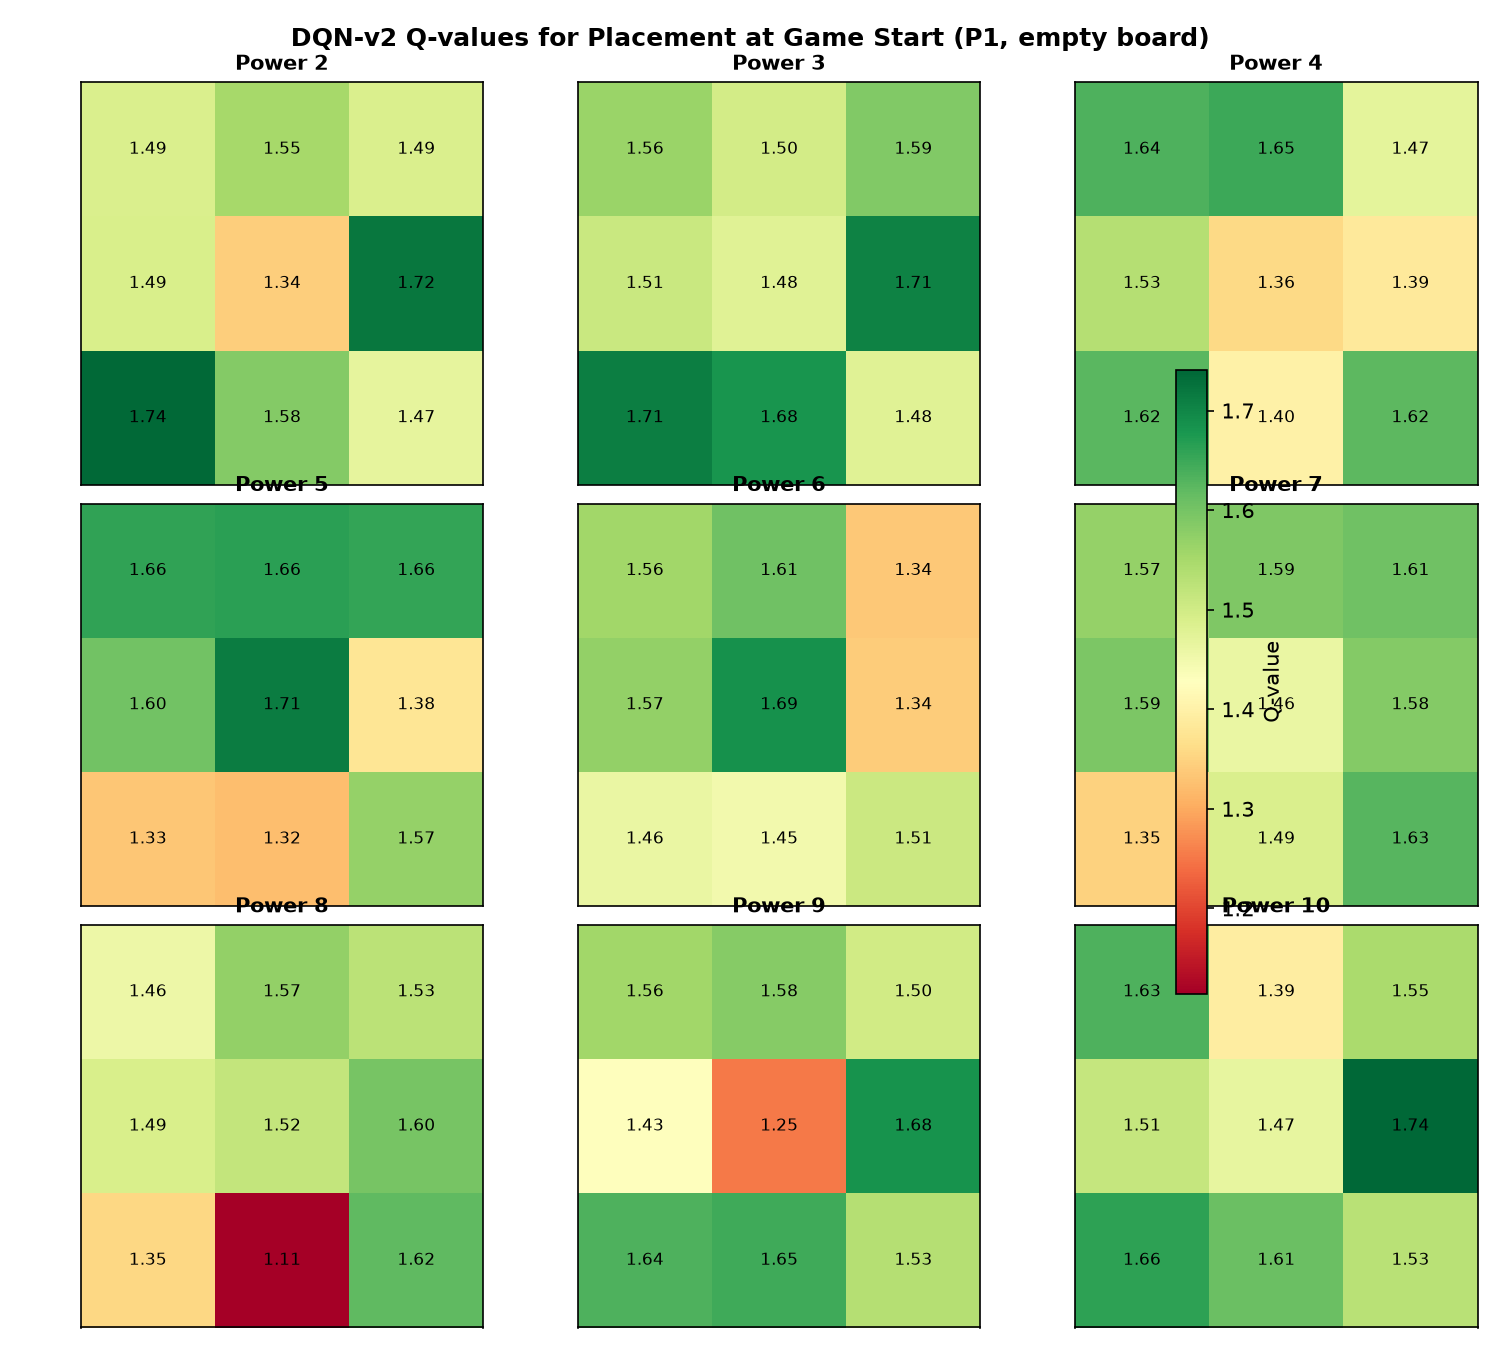
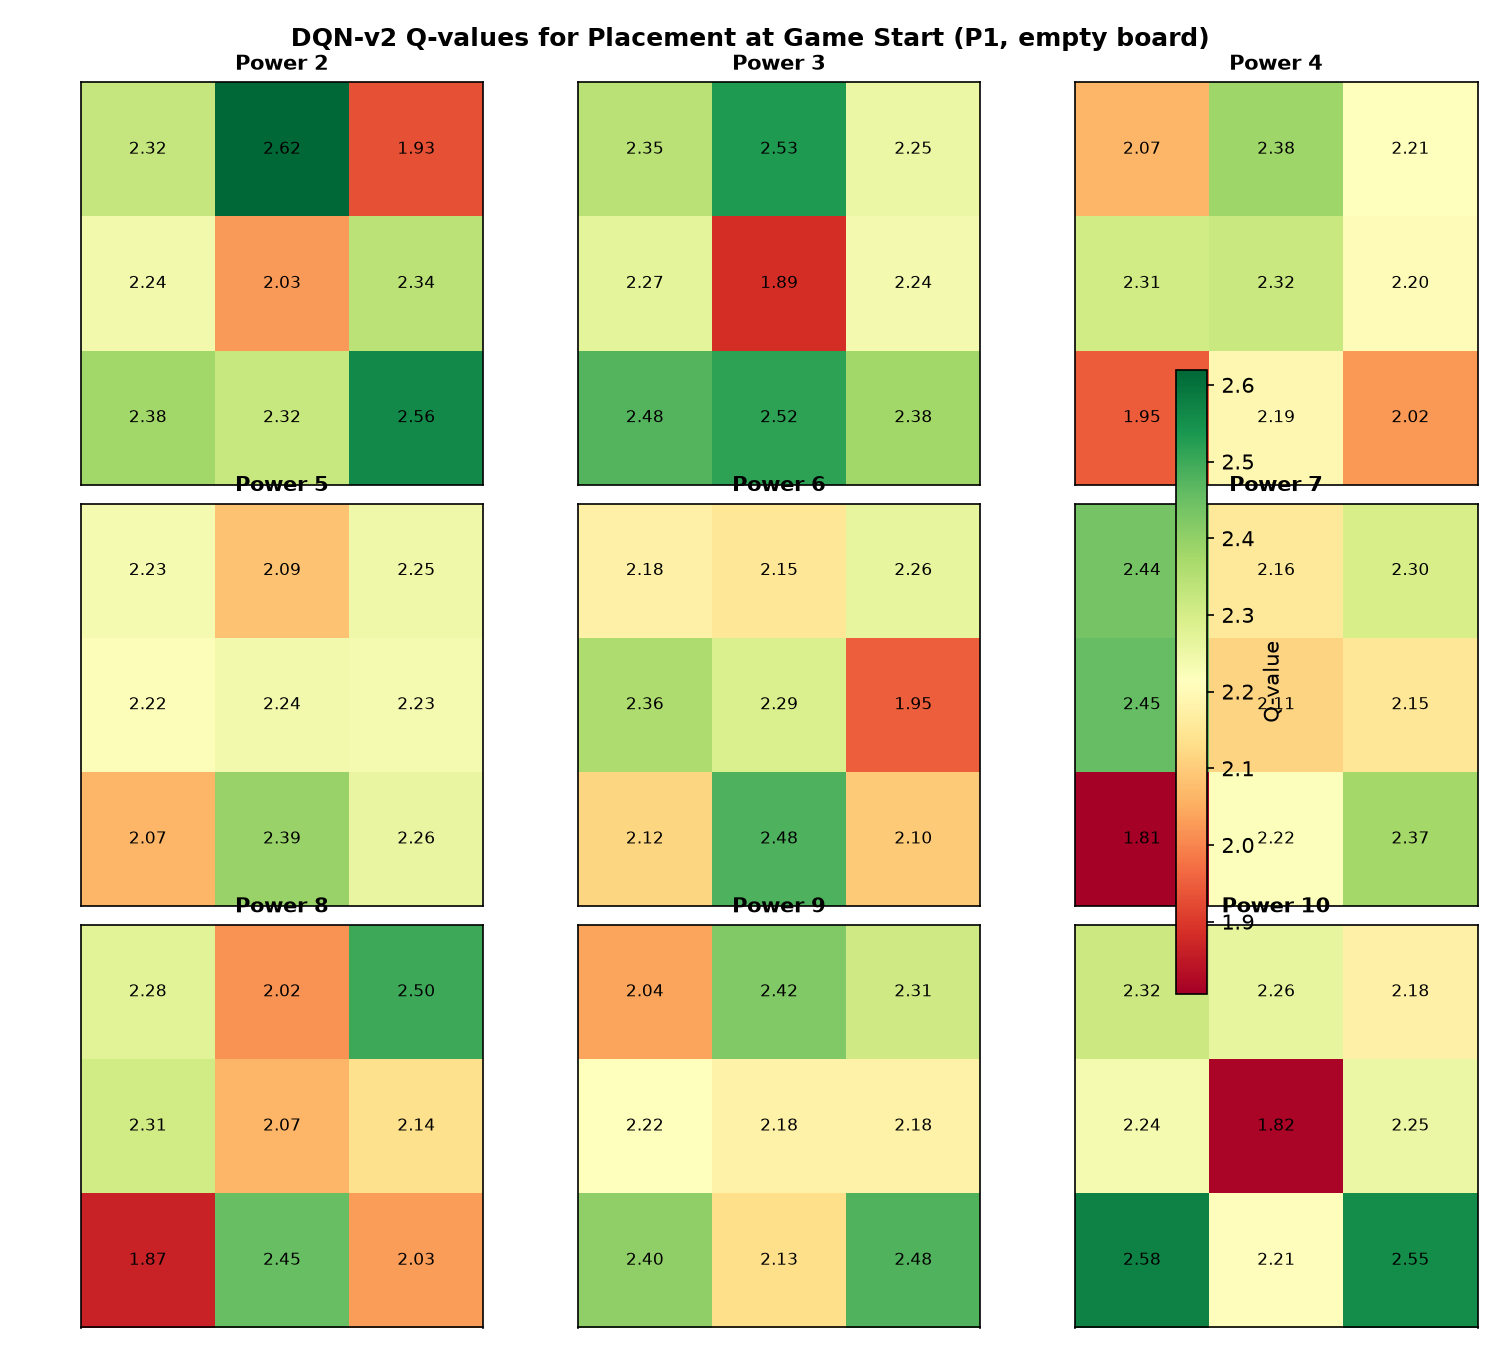
feat(utala): DQN v3 retrain — 56% peak vs corrected Heuristic, Phase 5.1 ✅
Retrained DQN against the corrected Heuristic (stale-state bug fixed).
50K games, same curriculum. Best checkpoint: 56% vs Heuristic at game 32,500.
Final: 47.5% (Stage 3 oscillation repeated). Best checkpoint saved and
clears the >50% Phase 5.1 gate.

Placement heatmap comparison: opening square shifted from R (93.6%) to
T (92.8%) — different fixed opening when opponent properly defends.

Updated: NEXT.md (Step 1 ticked, Step 2 redistil), PHASE5_PLAN.md,
visualise_agents.py (DQN-v3 label), charts regenerated in docs/images/
and explainers/images/.

Next: redistil TinyNN from DQN v3 best checkpoint (target ≥45% vs Heuristic).

AI: claude/sonnet-4.6 no-ticket 61k/3k

diff --git a/utala/kaos9/scripts/analysis/visualise_agents.py b/utala/kaos9/scripts/analysis/visualise_agents.py
@@ -47,7 +47,7 @@ def plot_strength_ladder():
         ("Random",        47, "#aaaaaa"),
         ("MC-Fast",       30, "#e07b54"),
         ("TinyNN (shipped)", 38.5, "#f5a623"),
-        ("DQN-v2",        41.5, "#4a90d9"),
+        ("DQN-v3 (best ckpt)", 56, "#4a90d9"),
         ("Heuristic",     None, "#2ecc71"),
     ]
 

diff --git a/utala/kaos9/NEXT.md b/utala/kaos9/NEXT.md
@@ -2,79 +2,61 @@
 
 ## Current state of the AI opponents
 
-All numbers below are from the corrected evaluation (2026-10-07) using the fixed harness
-(`rocket_in_play` now visible to agents each dogfight turn, MC rollouts use correct config).
-Variant A rules: `GameConfig(fixed_dogfight_order=False)`, 200 games balanced P1/P2.
+All numbers corrected (2026-10-07) using the fixed harness. Variant A rules, 200 games balanced P1/P2.
 
 | Agent | Params | vs Heuristic | vs Random | Ships? | Notes |
 |-------|--------|-------------|-----------|--------|-------|
-| **Random** | 0 | ~47% | — | No | Baseline. Picks legal moves at random. |
-| **Heuristic** | 0 | — | 53% | Candidate | Rule-based. Prioritises 3-in-a-row, defends when rocket in play. Strongest agent so far. |
-| **MC-Fast** | 0 | 30% | 48% | No | Monte Carlo rollouts. Collapses in Variant A — random rollouts can't evaluate fight-order choice. |
-| **DQN-v2** | ~39K | 41.5% | 59% | No | Best trained agent. Below Heuristic. Phase 5.1 checkpoint (>50%) does not hold against corrected Heuristic. |
-| **TinyNN (shipped)** | ~5.7K | 38.5% | 48% | ⚠ Shipped | Distilled from DQN-v2. Loses 6 in 10 vs Heuristic. Barely above Random. Teacher was too weak. |
-
-**Bottom line:** the Heuristic is the only opponent worth shipping right now. The TinyNN that went to Flutter loses more than it wins and is only marginally better than random.
+| **Random** | 0 | ~47% | — | No | Baseline |
+| **Heuristic** | 0 | — | 53% | Candidate | Strongest agent |
+| **MC-Fast** | 0 | 30% | 48% | No | Collapses in Variant A |
+| **DQN-v3 (best ckpt)** | ~39K | **56%** | ~48% | No | ✅ Clears 50% gate. Stage 3 oscillation — 47.5% final. Redistil needed. |
+| **TinyNN (shipped)** | ~5.7K | 38.5% | 48% | ⚠ Stale | Distilled from v2 (weak teacher). Needs redistil from v3. |
 
 ---
 
 ## What we'll do next
 
-### Step 1 — Retrain DQN against corrected Heuristic
+### ✅ Step 1 — Retrain DQN against corrected Heuristic — DONE
 
-The previous training used the buggy harness — the Heuristic opponent never defended. The DQN learned to exploit a passive opponent. Retraining with the fixes in place means it will face a properly-defending Heuristic from the start.
+Retrained 2026-10-07. 50K games, same curriculum config.
 
-**Script:** `scripts/train/variant_a/train_dqn_v2.py`
-**Target:** consistent >50% vs corrected Heuristic over 200-game eval
-**Config:** same as `dqn_v2d` (50K games, Stage 1/2/3 curriculum, LR halve at Stage 3)
+**Results:**
+- Best checkpoint: **56.0% vs Heuristic** (game 32,500, early Stage 3) — clears 50% gate ✅
+- Final model: 47.5% — same Stage 3 oscillation as v2 (loss climbs 0.27 → 0.57)
+- Best checkpoint saved: `results/dqn_v2d/dqn_v2_best.pth`
 
-Key things to watch:
-- Does the DQN learn to counter defensive dogfight play?
-- Does it learn to pick favourable fight order (the dimension MC failed at)?
-- Peak vs final — save the best checkpoint, not the last
-
-**Commit:** `feat(utala): DQN v3 — retrain against corrected Heuristic`
-
-> **After training:** run the visualisation script and update the learning hub:
-> ```bash
-> python scripts/analysis/visualise_agents.py
-> cp docs/images/*.png ../../explainers/images/
-> ```
-> This overwrites the baseline charts in the shared learning hub with the post-retrain versions.
-> Key comparison: does the placement heatmap still show 93.6% → R square, or does the new DQN develop varied opening strategy?
+**Opening shift (placement heatmap):** first move changed from **R (93.6%)** to **T (92.8%)** — different fixed opening when playing a properly-defending opponent. Still deterministic, just a different square.
 
 ---
 
-### Step 2 — Evaluate and set new checkpoint
+### Step 2 — Redistil from DQN v3 best checkpoint
 
-Run the 200-game corrected eval. Gate: consistent >50% vs Heuristic.
+Best checkpoint (56%) is the teacher. Redistil into TinyNN (80→32→95, ~5.7K params).
 
-If it doesn't clear 50%: try extending Stage 2 (the Heuristic curriculum phase) before adding self-play. The original 50K run peaked at 53% at 30K games — Stage 3 self-play may have caused oscillation. Try ending at 30K or using a lower LR throughout Stage 3.
+**Script:** `scripts/train/variant_a/distill_dqn.py`
+**Target:** TinyNN ≥45% vs corrected Heuristic
+**Steps:**
+1. Generate 5K–10K games with DQN v3 best checkpoint vs Heuristic + Random
+2. Train TinyNN student on teacher logits
+3. Eval: target ≥45% vs corrected Heuristic (100 games balanced)
+4. Export to `export/tiny_nn_f32.json` for Flutter
 
----
+**After redistil:** run visualise_agents.py, copy charts to explainers/images/, update this file.
 
-### Step 3 — Redistil once DQN clears the gate
-
-Same approach as Phase 5.2:
-- Generate 5K–10K games with new DQN vs Heuristic and Random
-- Train TinyNN (80→32→95, ~5.7K params)
-- Eval: target ≥45% vs corrected Heuristic
-- Export to `export/tiny_nn_f32.json` for Flutter
-
-**If TinyNN can't reach 45%:** try a slightly larger student (80→64→95, ~10K params). Size vs performance is the tradeoff for mobile.
+**Commit:** `feat(utala): redistil TinyNN from DQN v3 — stronger teacher`
 
 ---
 
-### Step 4 — Ship updated ONNX to Flutter
+### Step 3 — Ship updated ONNX to Flutter
 
-Replace the weights in the Flutter app. Update `export/tiny_nn_f32.json`.
-
-The Heuristic rule logic can also be ported as a deterministic fallback — if the neural net is uncertain (max logit < threshold), fall back to heuristic rules. Belt and braces.
+Replace weights in Flutter app with new `tiny_nn_f32.json`.
 
 ---
 
-## Longer term (if the above succeeds)
+## Stage 3 oscillation — open question
 
-- **Harder Heuristic:** the current heuristic doesn't model opponent Kaos deck state or use deck-aware strategy. Adding that would raise the bar further and produce a more interesting opponent.
-- **Curriculum difficulty:** ship multiple agents (Easy = Random, Medium = TinyNN, Hard = DQN) so players can choose.
-- **Self-play leagues:** once DQN beats Heuristic, a self-play league can push further — but requires stable training first.
+Both v2 and v3 peak in early Stage 3 then oscillate. Options if redistil alone isn't enough:
+
+- **Stop at 30K** (skip Stage 3 entirely — peak is consistently in early Stage 3)
+- **Lower Stage 3 LR further** (0.0001 instead of 0.0005)
+- **Keep 80% Heuristic in Stage 3** instead of 50/50 self-play mix

diff --git a/utala/kaos9/docs/phases/PHASE5_PLAN.md b/utala/kaos9/docs/phases/PHASE5_PLAN.md
@@ -32,11 +32,16 @@ Improvements to try:
 
 **CHECKPOINT PASSED (2026-04-14)** — DQN v2 (Run 4 / `dqn_v2d`) achieved consistent >50% vs Heuristic.
 
-> ⚠ **Corrected (2026-10-07):** Checkpoint pass was evaluated with a buggy harness (stale state in dogfights — Heuristic never defended). Re-evaluated `dqn_v2_best.pth` against the corrected Heuristic (200 games, balanced, seed 42):
-> - **DQN-v2 vs Heuristic: 41.5%** — below 50%, checkpoint pass does not hold
-> - **DQN-v2 vs Random: 59.0%** — clear skill above random baseline
-> - DQN still leads MC-Fast (30% vs Heuristic) and is the strongest trained agent
-> - Phase 5.1 goal of consistent >50% vs corrected Heuristic is **still open** — needs a re-train
+> ⚠ **Corrected (2026-10-07):** Original checkpoint pass was against a buggy Heuristic (stale state — never defended). Re-trained and re-evaluated with the fix applied.
+
+**DQN v3 — retrained against corrected Heuristic (2026-10-07):**
+- 50K games, same curriculum config as v2d
+- **Best checkpoint: 56.0% vs Heuristic** (game 32,500 — early Stage 3) — ✅ clears 50% gate
+- Final model: 47.5% (Stage 3 oscillation again — loss climbs 0.27 → 0.57)
+- Best checkpoint saved: `results/dqn_v2d/dqn_v2_best.pth`
+- Training time: 8.5 minutes
+
+The oscillation pattern from the original v2 run repeated. Stage 3 self-play causes loss to rise and performance to fluctuate. The best checkpoint (56%) is the correct model to use for distillation. See training log: `/tmp/dqn_v3_train.txt`.
 
 Run 4 config that worked:
 - Checkpoint saving + LR scheduling (halve at Stage 3 start, game 30K)
